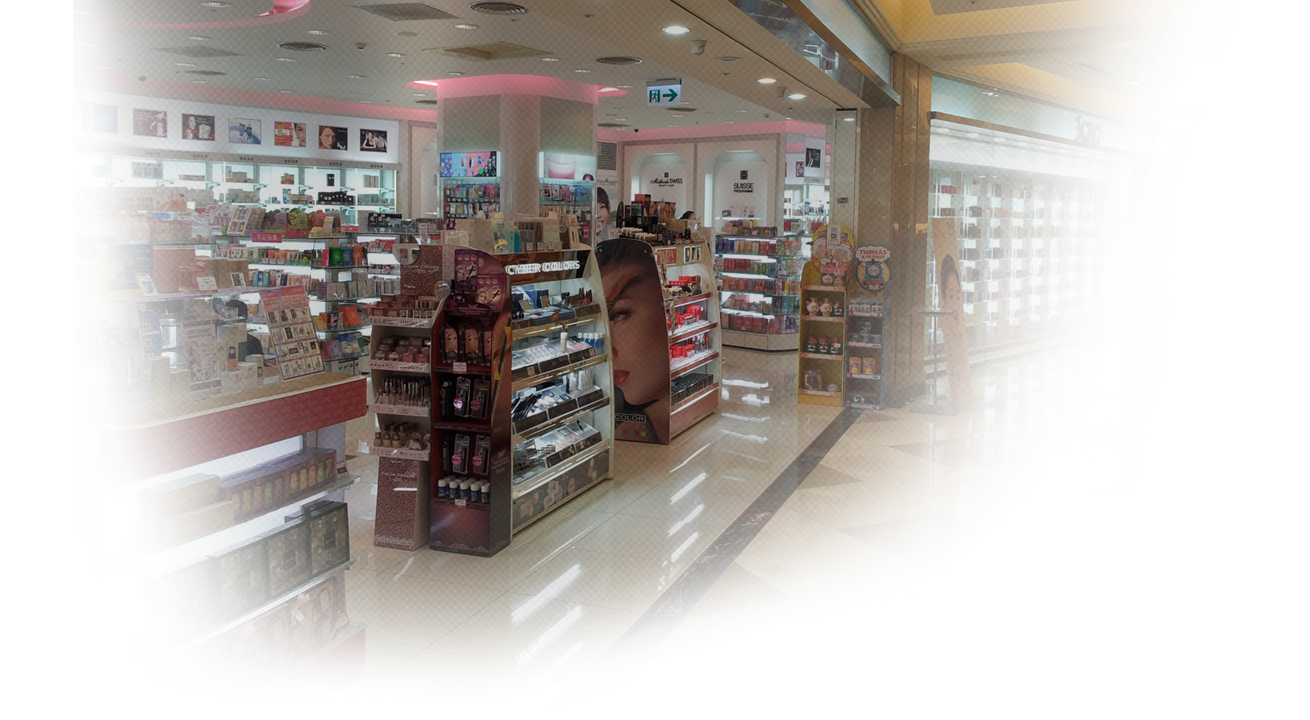
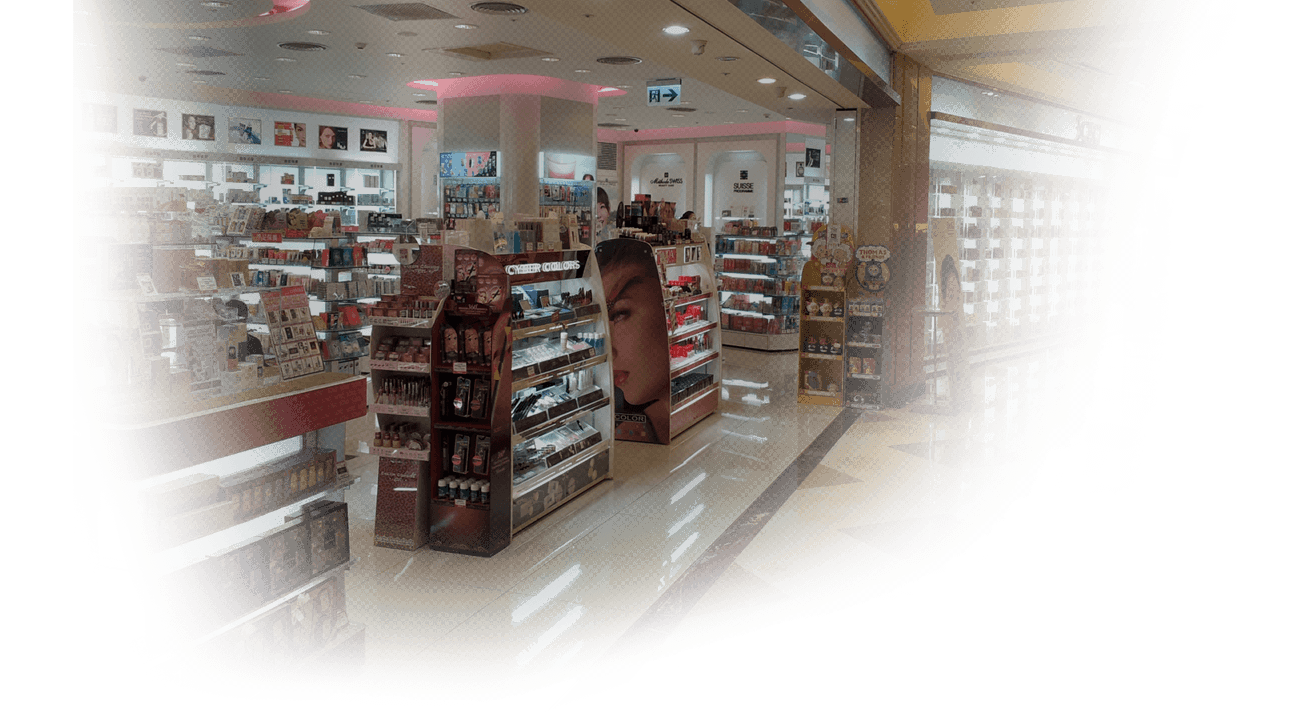
1. bg-index.png 檔案改小。 2. 交通位置頁加上方標題圖。 3. 產品明細頁加入詳細說明區塊。 4. 產品明細頁加入 lightbox 效果。 5. 產品明細頁加入社群分享效果。

diff --git a/product-detail.html b/product-detail.html
@@ -6,10 +6,12 @@
 <link type="text/css" rel="stylesheet" href="c/reset.css" media="screen, projection" />
 <link type="text/css" rel="stylesheet" href="c/layout.css" media="screen, projection" />
 <link type="text/css" rel="stylesheet" href="c/style.css" media="screen, projection" />
+<link type="text/css" rel="stylesheet" href="c/module/jquery.lightbox.css" media="screen, projection" />
 <link type="text/css" rel="stylesheet" href="c/page/product.css" media="screen, projection" />
 <script type="text/javascript" src="j/jquery.min.js"></script>
 <script type="text/javascript" src="j/jquery.hoverIntent.min.js"></script>
 <script type="text/javascript" src="j/jquery.superfish.min.js"></script>
+<script type="text/javascript" src="j/jquery.lightbox.min.js"></script>
 </head>
 <body>
 
@@ -112,7 +114,59 @@ $(function() {
 <script type="text/javascript">
 <!-- <![CDATA[
 $(function() {
+    $('#product-detail .photo-list a.lightbox').lightBox({
+        overlayBgColor: '#000',
+        overlayOpacity: 0.6,
+        imageLoading: 'i/lightbox/lightbox-ico-loading.gif',
+        imageBtnPrev: 'i/lightbox/lightbox-btn-prev.gif',
+        imageBtnNext: 'i/lightbox/lightbox-btn-next.gif',
+        imageBtnClose: 'i/lightbox/lightbox-btn-close.gif',
+        imageBlank: 'i/lightbox/lightbox-blank.gif',
+        txtImage: 'Image',
+        txtOf: 'of'
+    });
 
+    // 推至Facebook
+    $('#product-detail .facebook').click(function() {
+        var u = location.href;
+        var t = $('.article-content h1').text();
+        var url = 'http://www.facebook.com/sharer.php?u=' + encodeURIComponent(u) + '&t=' + encodeURIComponent(t);
+        window.open(url);
+        return false;
+    });
+
+    // 推至Google
+    $('#product-detail .google').click(function() {
+        var title = $('#product-detail .product-info h1').text();
+        var abstract = $('#product-detail .product-desc blockquote').text();
+        if (typeof abstract === 'undefined') { abstract = ''; }
+        var status = location.href + ' (' + title + ') ' + abstract;
+        var url = 'https://plus.google.com/share?url=' + encodeURIComponent(status);
+        window.open(url);
+        return false;
+    });
+
+    // 推至Twitter
+    $('#product-detail .twitter').click(function() {
+        var title = $('#product-detail .product-info h1').text();
+        var abstract = $('#product-detail .product-desc blockquote').text();
+        if (typeof abstract === 'undefined') { abstract = ''; }
+        var status = location.href + ' (' + title + ') ' + abstract;
+        var url = 'http://twitter.com/home/?status=' + encodeURIComponent(status);
+        window.open(url);
+        return false;
+    });
+
+    // 推至噗浪
+    $('#product-detail .plurk').click(function() {
+        var title = $('#product-detail .product-info h1').text();
+        var abstract = $('#product-detail .product-desc blockquote').text();
+        if (typeof abstract === 'undefined') { abstract = ''; }
+        var status = location.href + ' (' + title + ') ' + abstract;
+        var url = 'http://www.plurk.com/?qualifier=shares&status=' + encodeURIComponent(status);
+        window.open(url);
+        return false;
+    });
 });
 // ]]> -->
 </script>
@@ -122,12 +176,12 @@ $(function() {
 
 <div class="wrap">
 <div class="photo-list">
-<img src="i/photo06.jpg" alt="" width="385" height="300" class="main" />
+<a href="i/photo06.jpg" class="lightbox"><img src="i/photo06.jpg" alt="" width="385" height="300" class="main" /></a>
 <ul>
-<li><a href="#"><img src="i/photo05.jpg" alt="" width="90" height="90" /></a></li>
-<li><a href="#"><img src="i/photo-equip01.jpg" alt="" width="90" height="90" /></a></li>
-<li><a href="#"><img src="i/photo-product01.jpg" alt="" width="90" height="90" /></a></li>
-<li class="last"><a href="#"><img src="i/photo-gallery01.jpg" alt="" width="90" height="90" /></a></li>
+<li><a href="i/photo05.jpg" class="lightbox"><img src="i/photo05.jpg" alt="" width="90" height="90" /></a></li>
+<li><a href="i/photo-equip01.jpg" class="lightbox"><img src="i/photo-equip01.jpg" alt="" width="90" height="90" /></a></li>
+<li><a href="i/photo-product01.jpg" class="lightbox"><img src="i/photo-product01.jpg" alt="" width="90" height="90" /></a></li>
+<li class="last"><a href="i/photo-gallery01.jpg" class="lightbox"><img src="i/photo-gallery01.jpg" alt="" width="90" height="90" /></a></li>
 </ul>
 </div>
 
@@ -147,6 +201,13 @@ $(function() {
 </ul>
 <a href="#" class="btn-trace">加入追蹤清單</a>
 </div>
+</div>
+
+<div class="product-desc">
+<h3>商品詳細說明</h3>
+<blockquote>
+<p>暫無說明</p>
+</blockquote>
 </div>
 
 <div class="pager">

diff --git a/map.html b/map.html
@@ -110,7 +110,10 @@ $(function() {
 
 <div id="map" class="article-content">
 <h2><em>交通位置</em><span>Map</span></h2>
-
+<div class="address">
+<h1>允新精品櫥櫃設計</h1>
+<p>台南市安南區環福街106巷102號<br />TEL_06-3563238 FAX_06-3564398</p>
+</div>
 <iframe width="646" height="442" frameborder="0" scrolling="no" marginheight="0" marginwidth="0" src="https://maps.google.com/maps?f=q&amp;source=s_q&amp;hl=zh-TW&amp;geocode=&amp;q=%E5%8F%B0%E7%81%A3%E5%8F%B0%E5%8D%97%E5%B8%82%E5%AE%89%E5%8D%97%E5%8D%80%E7%92%B0%E7%A6%8F%E8%A1%97106%E5%B7%B7102%E8%99%9F&amp;aq=t&amp;sll=37.0625,-95.677068&amp;sspn=61.19447,135.263672&amp;t=m&amp;ie=UTF8&amp;hq=&amp;hnear=709%E5%8F%B0%E7%81%A3%E5%8F%B0%E5%8D%97%E5%B8%82%E5%AE%89%E5%8D%97%E5%8D%80%E7%92%B0%E7%A6%8F%E8%A1%97106%E5%B7%B7&amp;ll=23.071624,120.224405&amp;spn=0.035337,0.066047&amp;z=15&amp;output=embed&amp;iwloc=near"></iframe>
 
 <ol>

diff --git a/c/page/product.css b/c/page/product.css
@@ -127,6 +127,7 @@
     height: 20px;
     background: url(../../i/icon-share02.png) no-repeat 0 0;
     text-indent: -100000px;
+    outline: none;
 }
 
 #product-detail .product-info ul.share li a.google {
@@ -162,6 +163,24 @@
     height: 30px;
     background: url(../../i/btn-trace.png) no-repeat 0 0;
     text-indent: -100000px;
+}
+
+#product-detail .product-desc h3 {
+    margin-bottom: 5px;
+    background: url(../../i/bg-product-desc-title.png) no-repeat 0 center;
+    color: #9b7c43;
+    font-weight: bold;
+    font-size: 14px;
+    text-indent: 20px;
+}
+
+#product-detail .product-desc blockquote {
+    min-height: 100px;
+    height: auto !important;
+    height: 100px;
+    margin-bottom: 20px;
+    padding: 0 15px;
+    font-size: 12px;
 }
 
 /**

diff --git a/c/page/about.css b/c/page/about.css
@@ -310,8 +310,33 @@
     text-align: center;
 }
 
+#content-main #map h2 {
+    margin: 0;
+}
+
+#map .address {
+    height: 160px;
+    background: url(../../i/photo-map.png) no-repeat right 0;
+    color: #9b7c43;
+}
+
+#map .address h1 {
+    float: left;
+    margin: 70px 5px 0 20px;
+    font-size: 28px;
+}
+
+#map .address p {
+    float: left;
+    margin: 65px 0 0;
+    font-size: 16px;
+    line-height: 16px;
+    text-shadow: 1px 1px #fff;
+    text-align: left;
+}
+
 #map iframe {
-    margin-bottom: 20px;
+    margin: -20px 0 20px;
     border: 7px solid #e4e4e4;
 }
 
